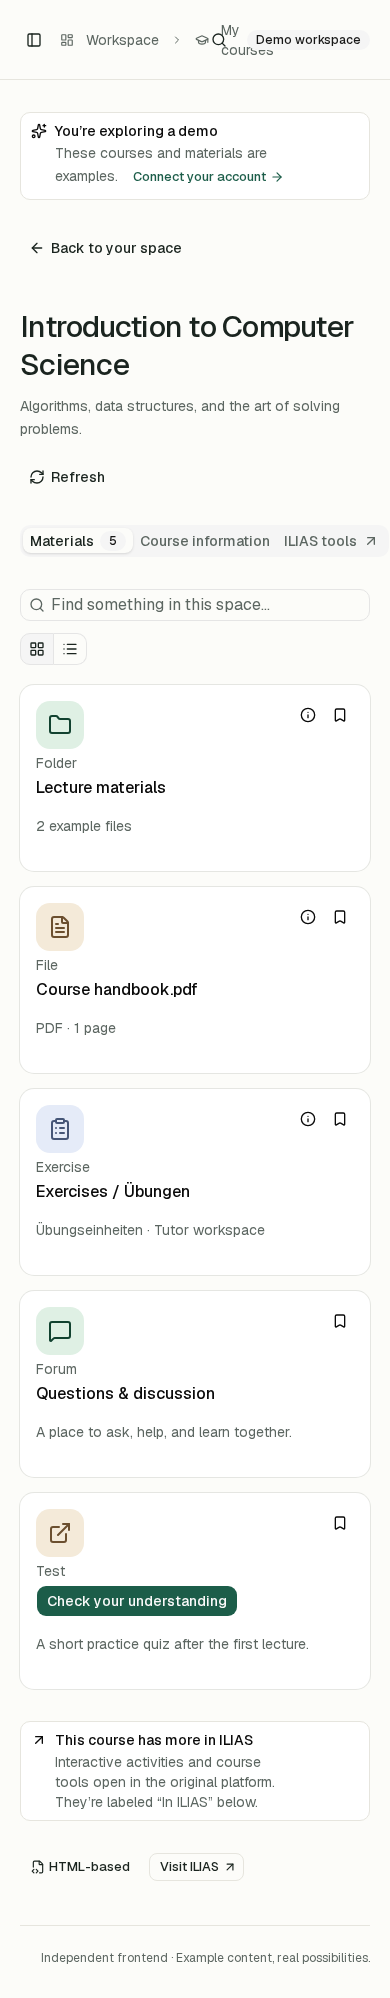
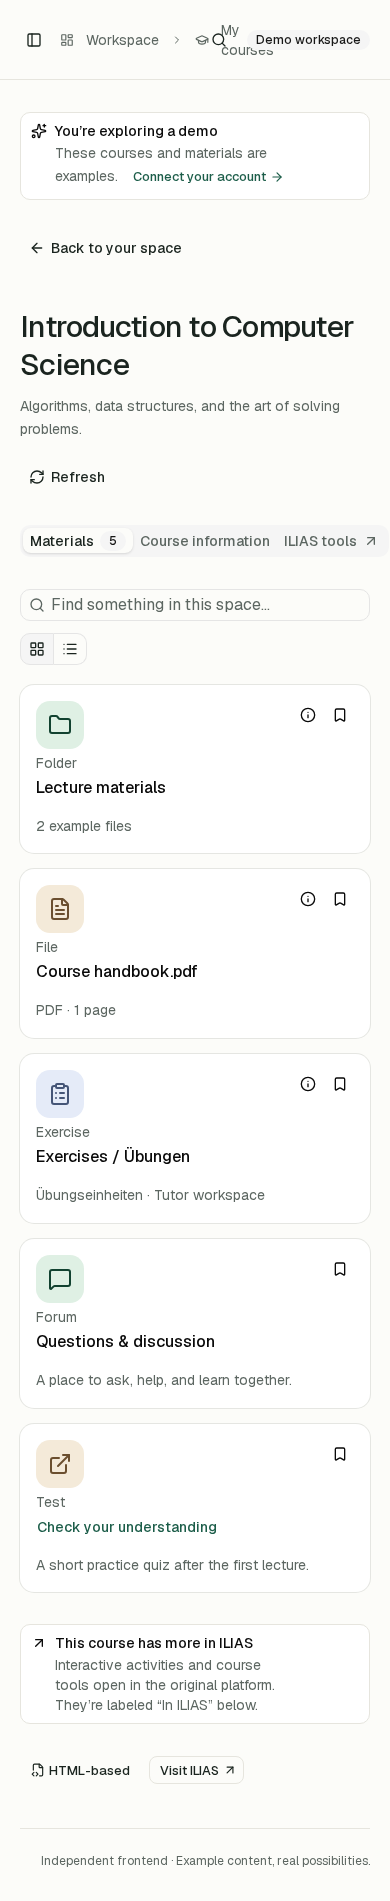
Make unsupported cards fully clickable and remove filler descriptions

diff --git a/scripts/card-actions-smoke.ts b/scripts/card-actions-smoke.ts
@@ -1,0 +1,103 @@
+import { chromium, expect } from "playwright/test";
+import assert from "node:assert/strict";
+const origin = process.env.ACHILIAS_TEST_URL || "http://127.0.0.1:3001";
+const browser = await chromium.launch({ headless: true });
+const page = await browser.newPage({ viewport: { width: 1364, height: 1000 } });
+const errors: string[] = [];
+page.on("pageerror", (error) => errors.push(error.message));
+async function clickPadding(selector: string, title: string) {
+  const entry = page
+    .locator(selector)
+    .filter({ has: page.getByRole("button", { name: title, exact: true }) });
+  await entry.scrollIntoViewIfNeeded();
+  const box = await entry.boundingBox();
+  assert.ok(box);
+  await page.mouse.click(box.x + 12, box.y + box.height - 8);
+  await expect(page.getByRole("dialog")).toBeVisible();
+  await expect(
+    page.getByRole("dialog").getByRole("heading", { name: title, exact: true }),
+  ).toBeVisible();
+}
+async function close() {
+  await page
+    .getByRole("dialog")
+    .getByRole("button", { name: "Close", exact: true })
+    .click();
+}
+try {
+  await page.goto(origin + "/browse/crs/101?demo=1");
+  const title = "Check your understanding";
+  await page
+    .getByRole("button", { name: `Bookmark ${title}`, exact: true })
+    .click();
+  assert.equal(
+    await page.getByRole("dialog").count(),
+    0,
+    "Bookmark click opened details",
+  );
+  await clickPadding(".course-card", title);
+  await close();
+  for (const key of ["Enter", "Space"]) {
+    await page.getByRole("button", { name: title, exact: true }).focus();
+    await page.keyboard.press(key);
+    await expect(page.getByRole("dialog")).toBeVisible();
+    await close();
+  }
+  assert.equal(
+    await page
+      .getByText("Open this learning space to find your materials.", {
+        exact: true,
+      })
+      .count(),
+    0,
+  );
+  await page.getByRole("radio", { name: "List view", exact: true }).click();
+  await clickPadding(".resource-row", title);
+  await close();
+  // Supported row links must retain the same large hit area after changing the
+  // primary text action to a normal link rather than an animated Button slot.
+  const folder = page
+    .locator(".resource-row")
+    .filter({
+      has: page.getByRole("link", { name: "Lecture materials", exact: true }),
+    });
+  await folder.scrollIntoViewIfNeeded();
+  const box = await folder.boundingBox();
+  assert.ok(box);
+  await page.mouse.click(box.x + 12, box.y + box.height - 8);
+  await expect(
+    page.getByRole("heading", { name: "Lecture materials", exact: true }),
+  ).toBeVisible();
+  // A legacy unknown object exercises the exact generic ILIAS-object path.
+  await page.evaluate(() =>
+    localStorage.setItem(
+      "achilias:demo:v1",
+      JSON.stringify({
+        saved: [
+          {
+            id: "999999",
+            type: "unknown",
+            title: "Unknown activity",
+            description: "",
+            meta: "",
+            available: true,
+            sourceUrl:
+              "https://ilias.uni-freiburg.de/goto.php?target=unknown_999999",
+          },
+        ],
+        recent: [],
+      }),
+    ),
+  );
+  await page.goto(origin + "/saved?demo=1");
+  await clickPadding(".resource-row", "Unknown activity");
+  await close();
+  await page.setViewportSize({ width: 390, height: 844 });
+  await clickPadding(".resource-row", "Unknown activity");
+  assert.deepEqual(errors, []);
+  console.log(
+    "Passed: unsupported card/row padding opens details, bookmarks stay independent, Enter/Space work, supported rows still navigate, unknown objects work on mobile, and filler descriptions are absent.",
+  );
+} finally {
+  await browser.close();
+}

diff --git a/src/components/workspace/item-list.tsx b/src/components/workspace/item-list.tsx
@@ -142,22 +142,26 @@ export function ItemList({
                 </ItemAction>
               </CardTitle>
             </CardHeader>
-            <CardContent>
-              <p className="line-clamp-2 min-h-10 text-sm leading-relaxed text-muted-foreground">
-                {cardSummary ||
-                  (item.type === "webr"
-                    ? "Open this website in a new tab."
-                    : "Open this learning space to find your materials.")}
-              </p>
-              {item.context && (
-                <p
-                  className="mt-2 line-clamp-1 text-xs text-muted-foreground/80"
-                  title={item.context}
-                >
-                  {item.context}
-                </p>
-              )}
-            </CardContent>
+            {(cardSummary || item.context) && (
+              <CardContent>
+                {cardSummary && (
+                  <p className="line-clamp-2 text-sm leading-relaxed text-muted-foreground">
+                    {cardSummary}
+                  </p>
+                )}
+                {item.context && (
+                  <p
+                    className={cn(
+                      cardSummary && "mt-2",
+                      "line-clamp-1 text-xs text-muted-foreground/80",
+                    )}
+                    title={item.context}
+                  >
+                    {item.context}
+                  </p>
+                )}
+              </CardContent>
+            )}
           </Card>
         ) : (
           <ResourceItem
@@ -172,8 +176,8 @@ export function ItemList({
             <ItemContent className="min-w-0">
               <ItemTitle className="max-w-full">
                 <ItemAction
-                  variant="link"
-                  className="resource-title px-0 after:absolute after:inset-0 after:rounded-lg focus-visible:outline-none focus-visible:after:ring-2 focus-visible:after:ring-ring"
+                  textLink
+                  className="resource-title hover:underline px-0 after:absolute after:inset-0 after:rounded-lg focus-visible:outline-none focus-visible:after:ring-2 focus-visible:after:ring-ring"
                   item={item}
                   demo={demo}
                   onOpen={onOpen}

diff --git a/src/components/navigation/item-action.tsx b/src/components/navigation/item-action.tsx
@@ -2,6 +2,7 @@
 import Link, { useLinkStatus } from "next/link";
 import { Loader2 } from "lucide-react";
 import { Button } from "@/components/ui/button";
+import { cn } from "@/lib/utils";
 import {
   isContainerType,
   isExternalItem,
@@ -76,9 +77,22 @@ export function ItemAction({
       );
     return null;
   }
+  // Popup semantics also prevent Button's active translation from changing
+  // the containing block of a stretched card or row hit area.
   if (!isNavigableItem(item))
     return (
-      <Button {...props} onClick={() => onOpen(item)}>
+      <Button
+        {...props}
+        type="button"
+        variant={textLink ? "link" : props.variant}
+        className={cn(
+          "cursor-pointer",
+          textLink && "h-auto justify-start whitespace-normal p-0 text-left",
+          props.className,
+        )}
+        aria-haspopup="dialog"
+        onClick={() => onOpen(item)}
+      >
         {children}
       </Button>
     );
